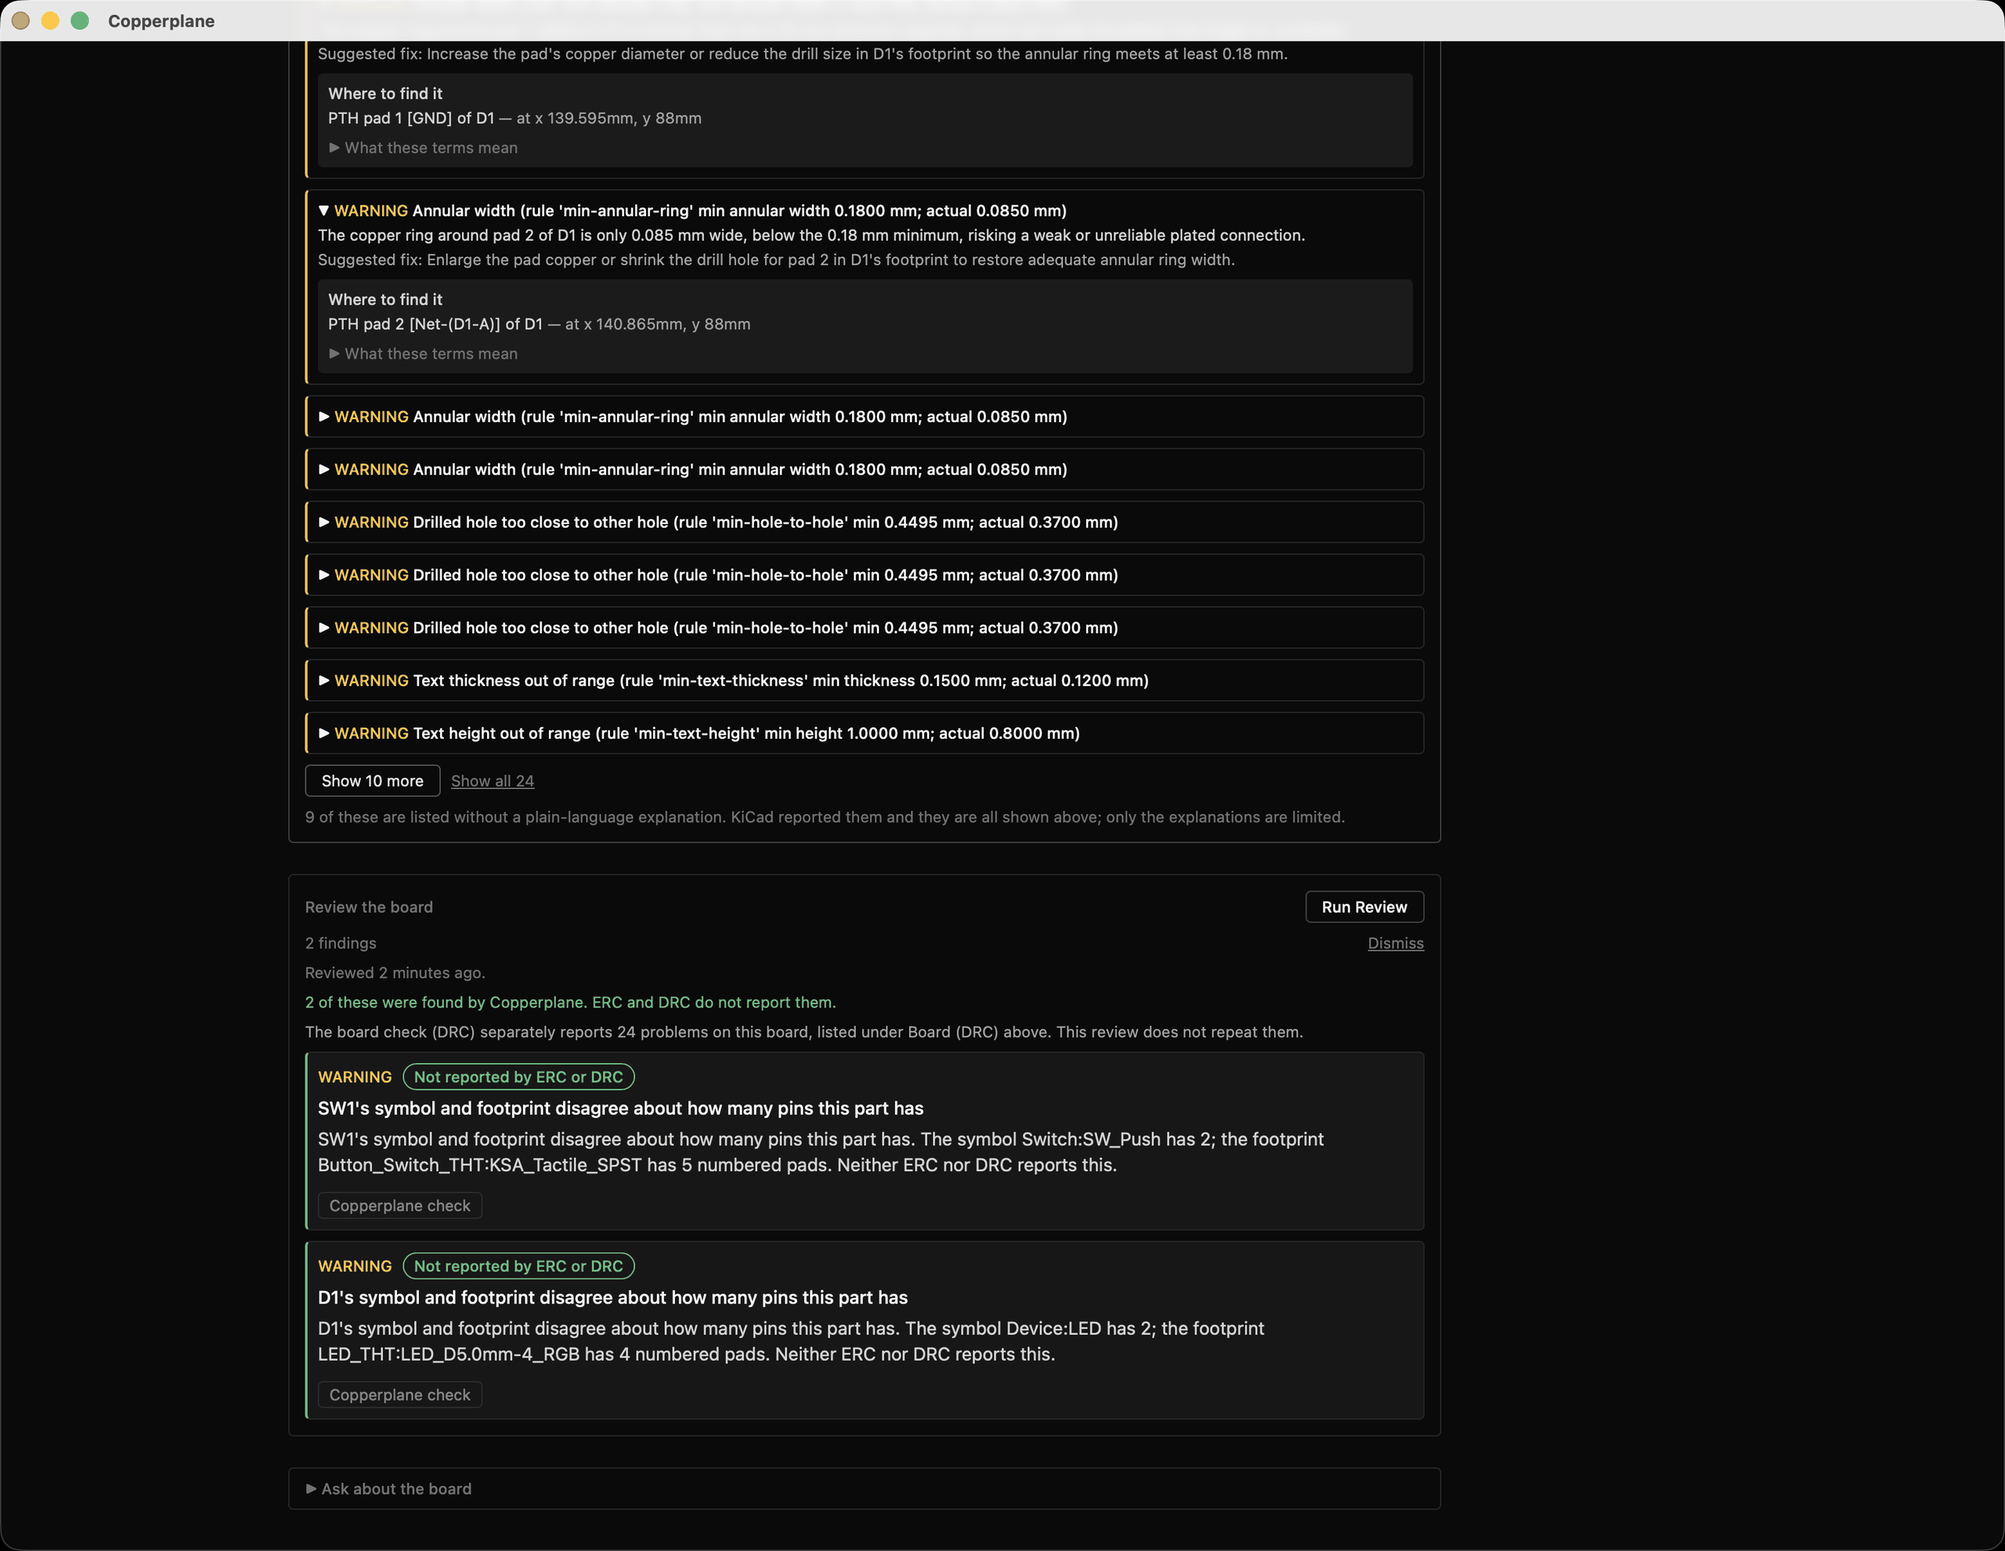
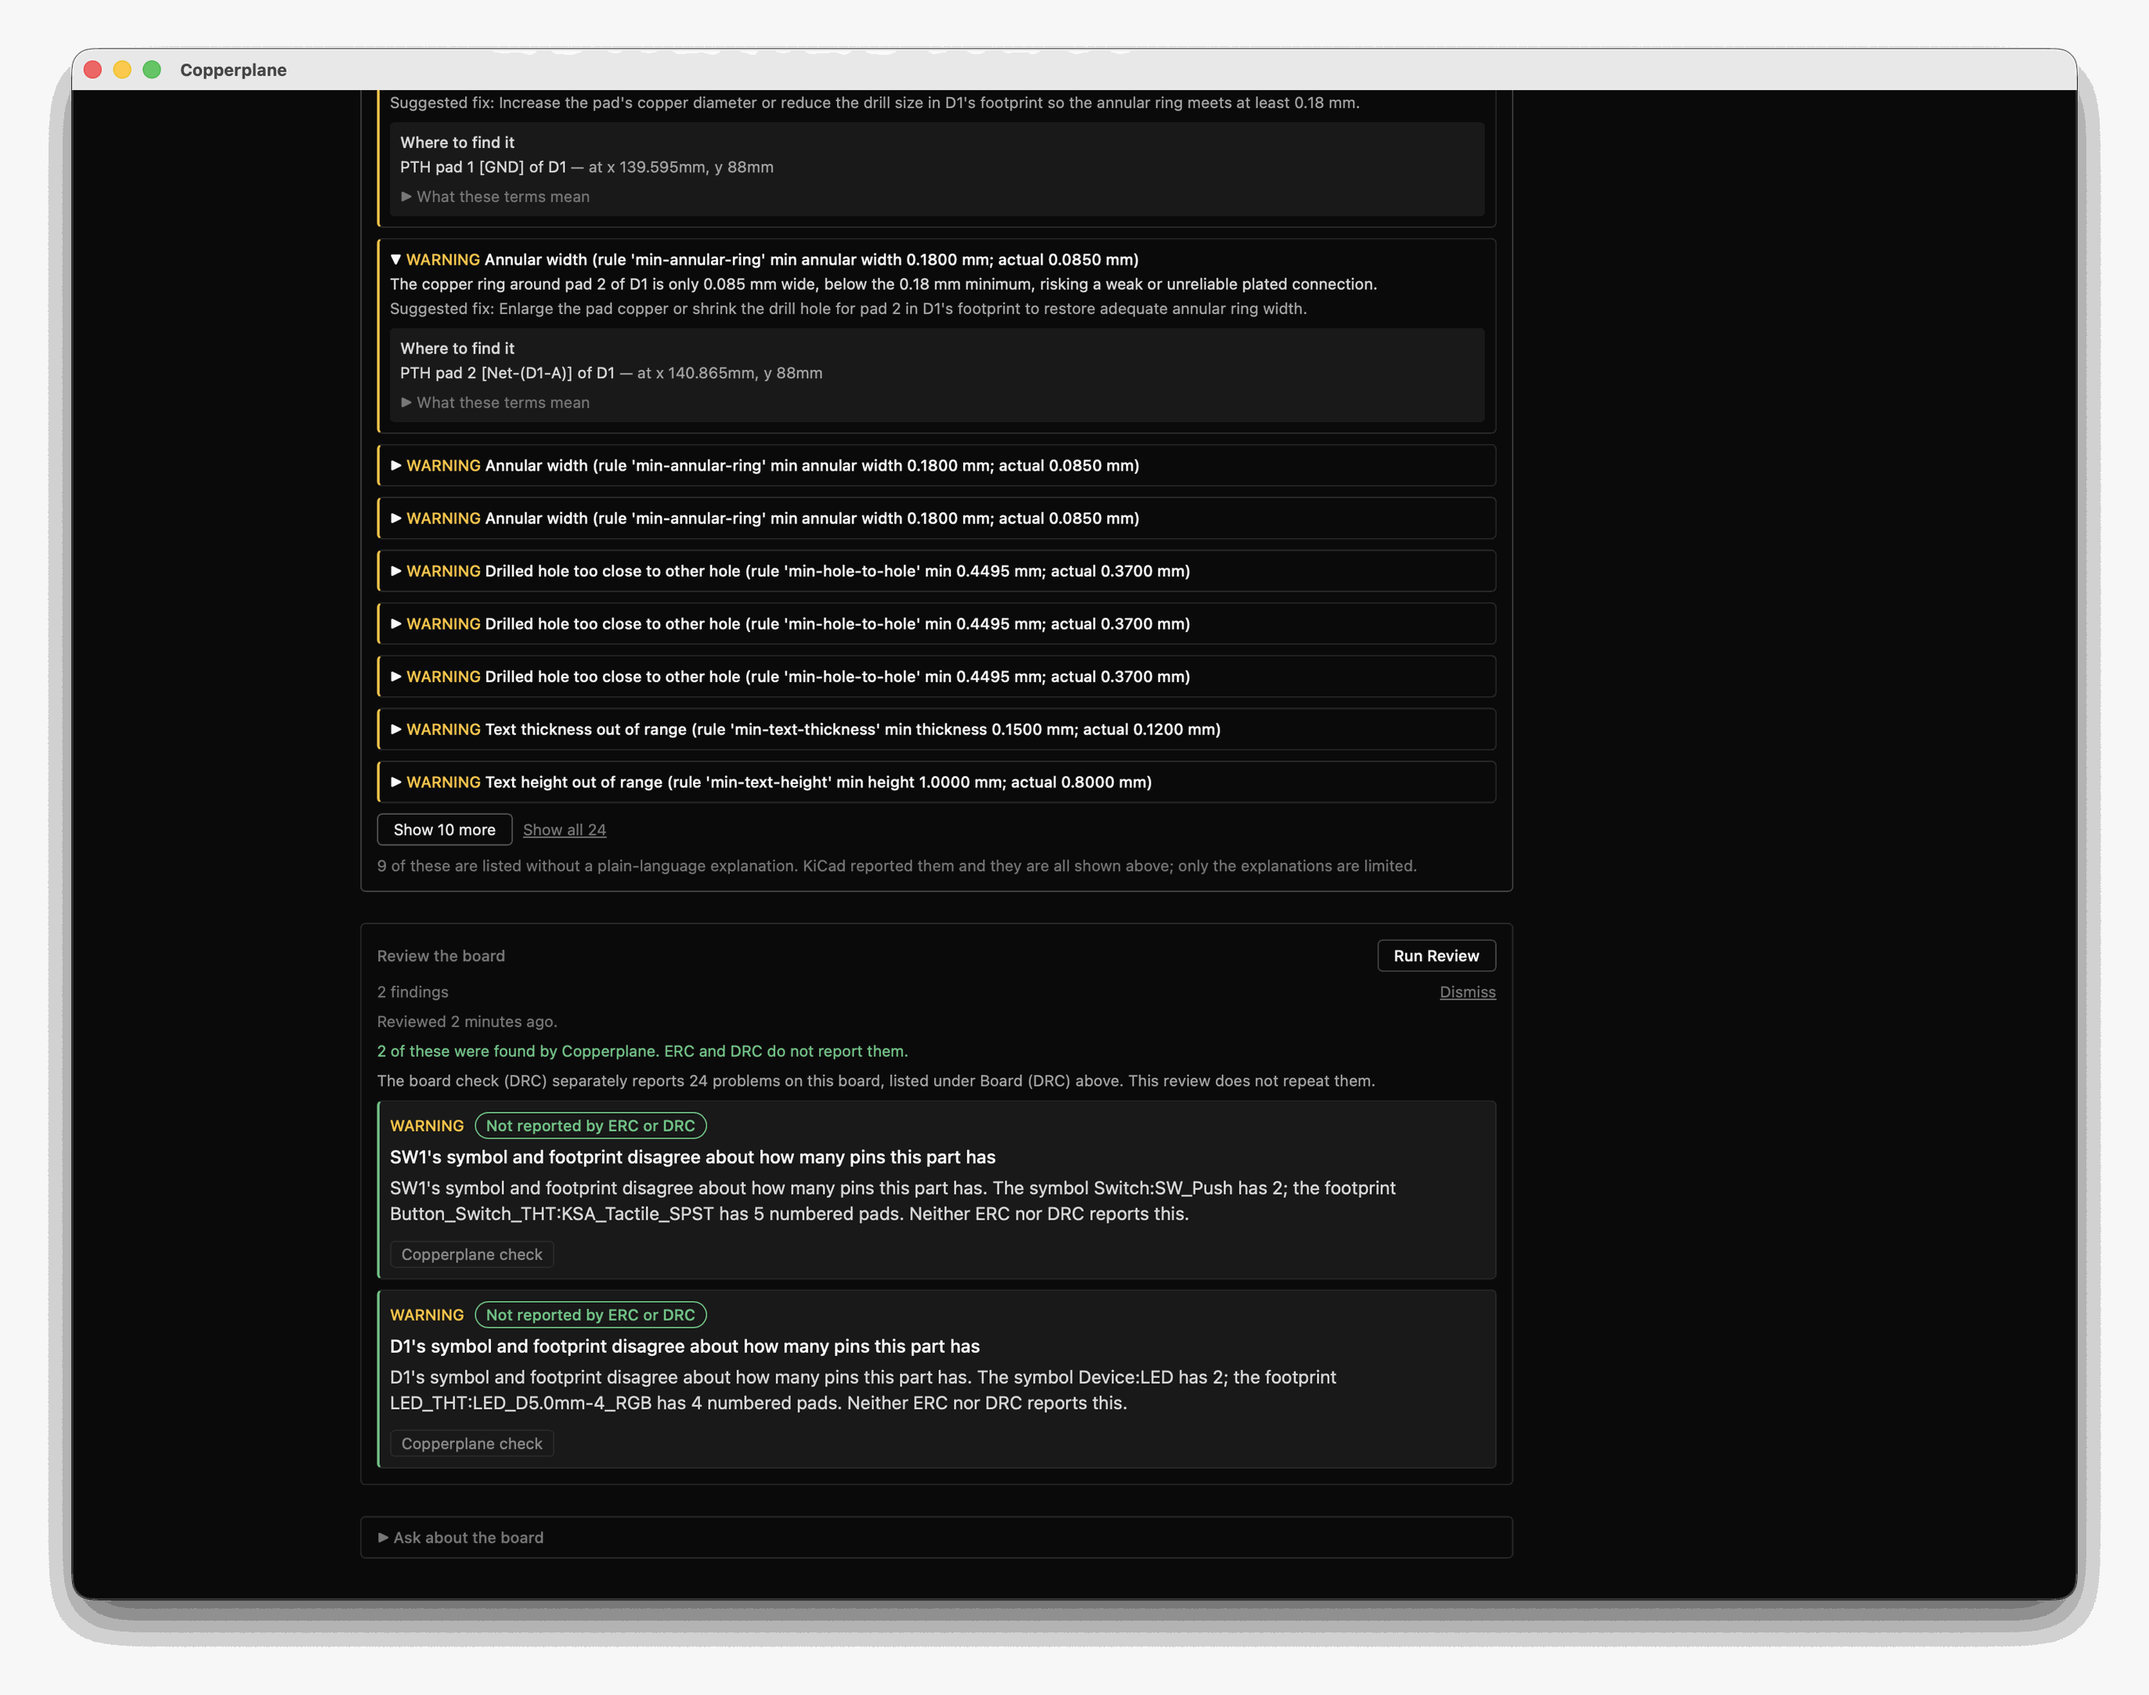
docs(SPEC-408): let the screenshots float on the page instead of blocking it
Every image was flattened onto black, so on a light page each one read as a
heavy dark rectangle. macOS had already captured the answer and I had been
throwing it away: Cmd+Shift+4 plus Space captures the window on a
transparent surround with its own soft drop shadow.

Keeping it means one file looks right in both themes -- the window floats
on whatever the page background is -- with no reshooting and no light/dark
pairs. It is also smaller: the shadow gradient palettes better than a
full-bleed dark rectangle, so nothing here exceeds 250KB where flattened
versions ran to 500KB and needed 48-colour palettes to fit.

The redaction script was dropping the alpha. redact() called convert("RGB")
unconditionally, so nine of twenty-three images came back flattened and
fourteen kept their shadow, from one run. Blurring still happens in RGB --
pixelating an alpha channel would eat the gradient -- and the channel is
reattached afterwards.

Two images are from the 2026-09-04 session, which captured windows already
cropped to their own edges. Rather than reshoot two screens that are still
accurate, both were given a shadow measured off a real capture rather than
guessed: the native one ramps over 111px and so does theirs.

The CSS border goes with it. It existed because a flattened window bleeds
into a same-toned background; a shadow is a better edge, and a border would
now outline the shadow rather than the window.

Changed region(s): [[0.0, 0.0, 1.0, 1.0]]

diff --git a/docs/site/src/styles/custom.css b/docs/site/src/styles/custom.css
@@ -27,9 +27,16 @@
   --sl-color-accent-high: #0b5c34; /* Solder mask */
 }
 
-/* Screenshots of a desktop app need a visible edge or they bleed into the
-   page background in whichever theme has the same tone. */
+/* Screenshots carry their own edge.
+   
+   These used to get a 1px border, because a window flattened onto black bleeds
+   into whichever theme shares its tone. They are no longer flattened: each one
+   keeps the transparent surround and soft drop shadow that macOS captured, so
+   the window floats on the page's own background -- light or dark -- and the
+   shadow is the edge.
+   
+   A border here would now draw a rectangle around the SHADOW rather than the
+   window, which is worse than having none. */
 .sl-markdown-content img {
-  border: 1px solid var(--sl-color-gray-5);
-  border-radius: 4px;
+  border: 0;
 }

diff --git a/scripts/redact_screenshots.py b/scripts/redact_screenshots.py
@@ -86,6 +86,15 @@ def find_boxes(grey, secret):
 
 
 def redact(image, boxes, pad=4):
+    # A macOS window capture is RGBA: the window sits on a transparent surround
+    # with its own drop shadow. Blurring has to happen in RGB -- pixelating an
+    # alpha channel would eat the shadow's gradient -- but the transparency has
+    # to survive the round trip, or every redacted shot comes back flattened
+    # onto black while the ones with nothing to redact keep their shadow.
+    #
+    # That is exactly what happened on 2026-09-12: nine of twenty-three images
+    # came out opaque and fourteen did not, from one run.
+    alpha = image.getchannel("A") if image.mode == "RGBA" else None
     out = image.convert("RGB")
     for x, y, w, h in boxes:
         box = (max(0, x - pad), max(0, y - pad),
@@ -95,6 +104,9 @@ def redact(image, boxes, pad=4):
             (max(1, region.width // 12), max(1, region.height // 6)), Image.BILINEAR
         ).resize(region.size, Image.NEAREST)
         out.paste(pixelated.filter(ImageFilter.GaussianBlur(3)), box)
+    if alpha is not None:
+        out = out.convert("RGBA")
+        out.putalpha(alpha)
     return out
 
 

diff --git a/docs/site/SCREENSHOTS.md b/docs/site/SCREENSHOTS.md
@@ -78,26 +78,32 @@ changes the guide.
 
 ## The pipeline the raw captures need
 
-Recorded because the raw captures do **not** match the set already here, and finding that out costs
+Recorded because the raw captures do **not** match what the site wants, and finding that out costs
 an hour.
 
 1.  **Redact first, at full resolution.** `scripts/redact_screenshots.py` needs `pytesseract`, which
     is in none of this repo's virtualenvs — and must not be added to `.build-venv`, which is what
-    freezes the shipped sidecar. Make a throwaway venv outside the repo. Of the fifteen shots
-    processed on 2026-09-12, **six** carried the username.
-2.  **Crop away the drop shadow.** `Cmd+Shift+4` + Space captures a soft shadow and a transparent
-    surround; nothing already in `public/images/` has either. The window is where alpha is fully
-    opaque — crop to that bounding box, then flatten onto black.
-3.  **Resize to 2560 wide**, which is what the existing images are.
-4.  **Save as a palette PNG.** A flat dark UI loses nothing visible. 256 colours suits most shots;
-    text-dense screens need fewer to come down — 128 for `schematic-erc`, 96 for `design-guidance`,
-    64 for `ask-the-agent`. Check the small grey body text at 1:1 for banding before accepting it;
-    at 64 colours it was still crisp.
+    freezes the shipped sidecar. Make a throwaway venv outside the repo.
+2.  **Keep the alpha.** `Cmd+Shift+4` + Space captures the window on a **transparent surround with a
+    soft drop shadow**, and that is the thing that makes a screenshot sit on a light page as
+    comfortably as a dark one. Do not flatten it.
+3.  **Scale so the WINDOW is 2560 wide**, not the image. Normalising the whole image instead means a
+    capture with a bigger shadow gets a smaller app inside it.
+4.  **Save as a palette PNG with transparency.** `quantize(method=FASTOCTREE)` keeps the alpha;
+    `convert('P')` does not. A flat dark UI loses nothing visible, and the shadow gradient palettes
+    *better* than a full-bleed dark rectangle — every image here is under 250KB, where flattened
+    ones ran to 500KB and needed 48-colour palettes to fit.
 
-`ask-the-agent.png` is the extreme case: a full agent answer, so nearly the whole frame is small
-text. Retaken 2026-09-12 with the answer fitting in one window, and it needs **48 colours** to come
-in at 379KB. Checked at 1:1 — the text is still crisp there, and a dark UI with light text has far
-fewer distinct colours than the palette count suggests.
+## Two shots have a synthesised shadow
+
+`settings.png` and `new-project-review.png` come from the 2026-09-04 session, which captured windows
+already cropped to their own edges — square corners, no shadow, no transparency. Rather than reshoot
+two screens that are still accurate, both were given a shadow built to match the real ones:
+**20px corner radius, 34px blur, 18px downward offset**, measured off a genuine capture rather than
+guessed. The native shadow ramps over 111px; the synthetic one ramps over 111px.
+
+If either is ever recaptured the synthetic shadow should go — a real one is always better than a
+matched one.
 
 ## Dark theme, everywhere
 
